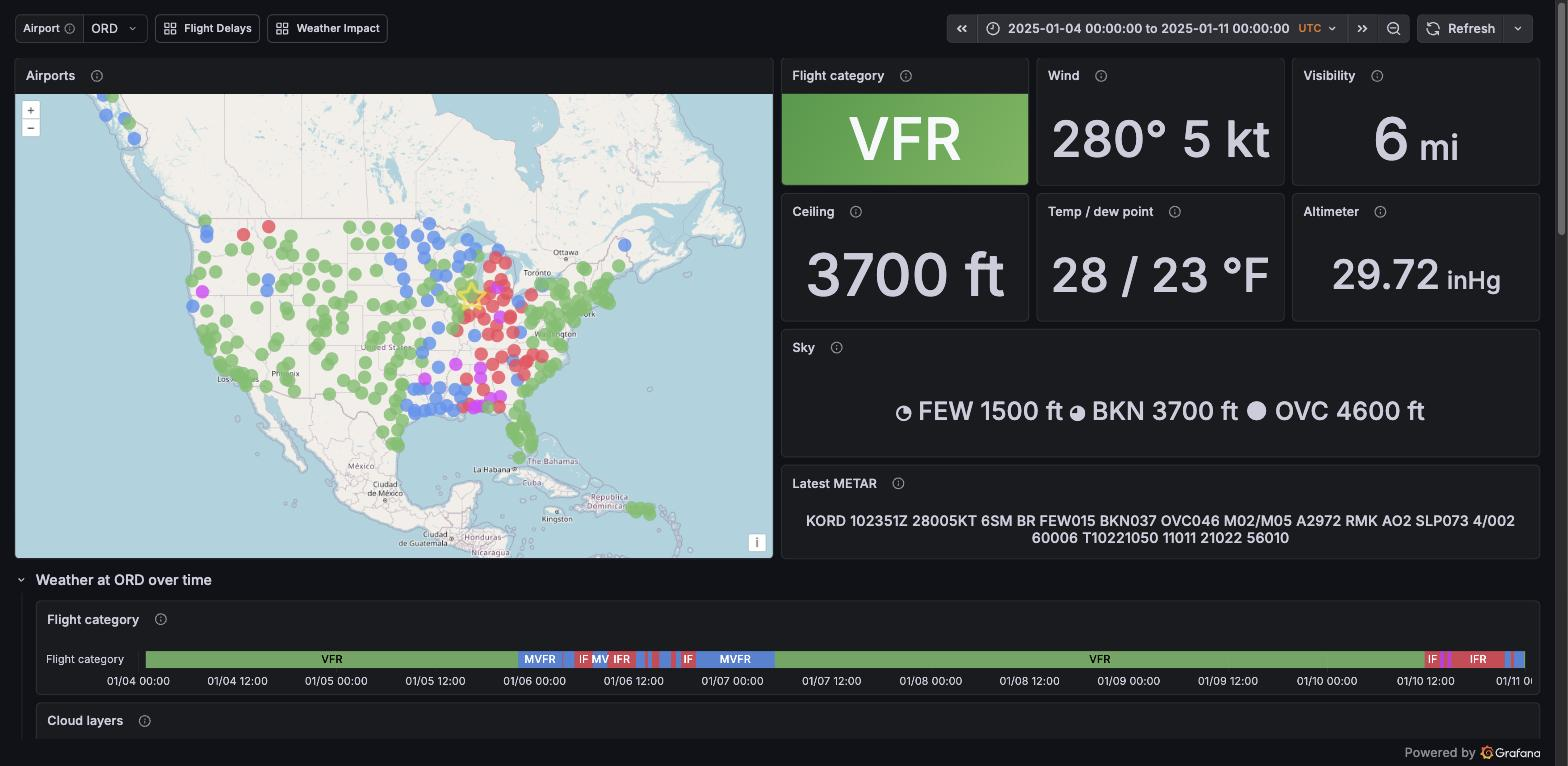
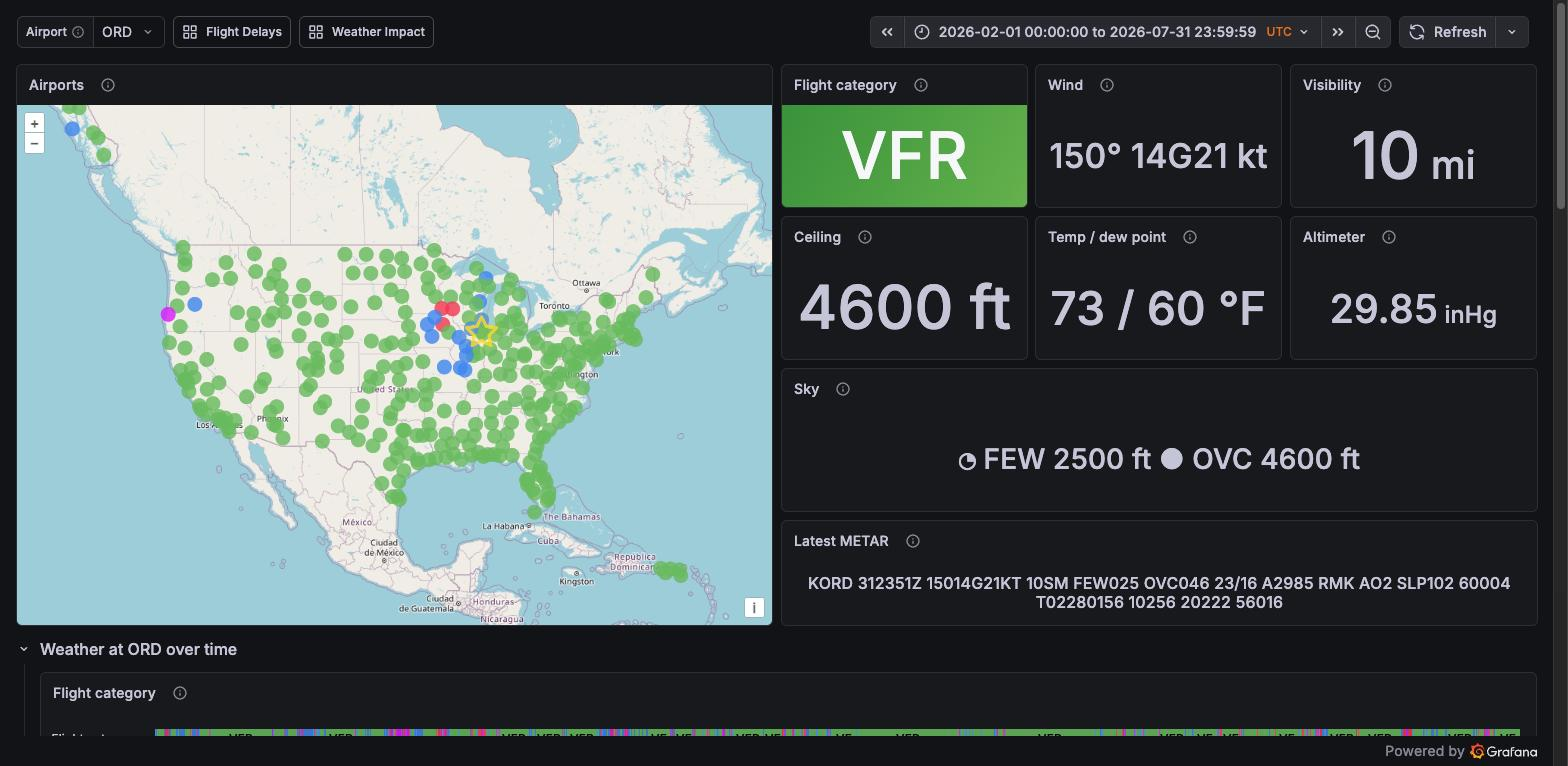
Retake the README screenshots on the new six-month default range
All eight screenshots now show February to July 2026, and the captions say
so. The Airport Weather cloud caption describes six months rather than one
week, and N511AE is correctly described as a PSA Airlines CRJ-700.

diff --git a/README.md b/README.md
@@ -8,7 +8,7 @@ A ClickHouse / Grafana application that uses publicly available FAA flight and w
 Developed with ClickHouse 26.9 and Grafana 13. The ten years of data from 2016 take about
 5 GB of downloads and about 10 GB in ClickHouse.
 
-![Flight Delays dashboard, 2025](docs/screenshots/flight-delays.jpg)
+![Flight Delays dashboard, February to July 2026](docs/screenshots/flight-delays.jpg)
 
 ## Data
 
@@ -263,29 +263,30 @@ in the time range.
 
 ### Screenshots
 
-**Flight Delays**, 2025: headline figures, delays and cancellations by day, delay causes by
-month and the airline table (top, above); further down, the airport map, the most delayed
-airports and the least reliable city pairs and flight numbers:
+**Flight Delays**, February to July 2026: headline figures, delays and cancellations by
+day, delay causes by month and the airline table (top, above); further down, the airport
+map, the most delayed airports and the least reliable city pairs and flight numbers:
 
 ![Flight Delays: airport map and top-10 rankings](docs/screenshots/flight-delays-rankings.jpg)
 
-**Weather Impact**, 2025: how late departures, cancellations and delays vary with the weather
-at the departure airport:
+**Weather Impact**, February to July 2026: how late departures, cancellations and delays
+vary with the weather at the departure airport:
 
 ![Weather Impact dashboard](docs/screenshots/weather-impact.jpg)
 
-**Airport Weather**, Chicago O'Hare, 4-11 January 2025: airports coloured by flight
-category, the latest report, and the flight category over time:
+**Airport Weather**, Chicago O'Hare, February to July 2026: airports coloured by flight
+category at their latest report, that report decoded, and the flight category over time:
 
 ![Airport Weather dashboard](docs/screenshots/airport-weather.jpg)
 
-Its cloud layers, coloured by cover, over the full height and below 5,000 ft, where the
-overcast of 6 January drops into IFR:
+Its cloud layers over the six months, coloured by cover, over the full height and below
+5,000 ft, where the shaded bands show the flight category a ceiling at that height gives:
+MVFR up to 3,000 ft, IFR below 1,000 ft and LIFR below 500 ft:
 
 ![Airport Weather: cloud layers and low cloud](docs/screenshots/airport-weather-clouds.jpg)
 
-**Aircraft Reliability**, 2025: the fleet overview, the least reliable aircraft, and one
-aircraft's history (N511AE, an Envoy CRJ-700):
+**Aircraft Reliability**, February to July 2026: the fleet overview, the least reliable
+aircraft (all ten flown by Spirit), and one aircraft's history (N511AE, a PSA Airlines CRJ-700):
 
 ![Aircraft Reliability dashboard](docs/screenshots/aircraft-reliability.jpg)
 ![Aircraft Reliability: least reliable aircraft](docs/screenshots/aircraft-rankings.jpg)
